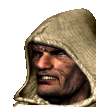
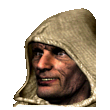
faceAnimation

Changed region(s): [[0.2727, 0.3545, 0.7091, 0.9], [0.5455, 0.8182, 0.5727, 0.8455], [0.2182, 0.4364, 0.2455, 0.4636]]

diff --git a/Stronghold crusader/Client/view/GameGraphics.java b/Stronghold crusader/Client/view/GameGraphics.java
@@ -93,6 +93,7 @@ public class GameGraphics extends Application {
     private ComboBox<TradeRequest> tradesHistoryComboBox;
     private ArrayList<Rectangle> selectionRectangles = new ArrayList<>();
     private ImageView attackBanner;
+    private ImageView faceImage;
     private ArrayList<PopularityFactor> popularityFactors = new ArrayList<>();
     private CursorAnimation cursorAnimation;
     private StackPane miniMapPane;
@@ -100,7 +101,6 @@ public class GameGraphics extends Application {
     private double minX;
     private double minY;
     private ScrollPane clipBoard;
-
     @Override
     public void start(Stage stage) {
         Scene scene = prepareStageElements();
@@ -126,6 +126,16 @@ public class GameGraphics extends Application {
         scene.getStylesheets().add(GameGraphics.class.getResource("/CSS/slideBar.css").toExternalForm());
         setCheatShortCuts(scene);
         createClipboard();
+        FaceAnimation faceAnimation = new FaceAnimation(faceImage, 10);
+        faceAnimation.play();
+    }
+
+    private void setFaceImage() {
+        Image image = new Image(GameGraphics.class.getResource("/Images/Game/Menu/Face/anim (0).png").toString(), 147, 147, false, false);
+        faceImage = new ImageView(image);
+        faceImage.setTranslateX(308);
+        faceImage.setTranslateY(-63);
+        statusPane.getChildren().add(faceImage);
     }
 
     private void setCamera() {
@@ -775,6 +785,7 @@ public class GameGraphics extends Application {
         imageView.setScaleY(1.4);
         stackPane.getChildren().add(imageView);
         rootPane.getChildren().add(stackPane);
+        setFaceImage();
         setCreateBuilding();
         statusBarButtons();
         setGovernmentDetails();
@@ -1332,6 +1343,7 @@ public class GameGraphics extends Application {
         if (popularity < 50) popularityText.setFill(Color.RED);
         else if (popularity < 75) popularityText.setFill(Color.ORANGE);
         else popularityText.setFill(Color.GREEN);
+        new FaceAnimation(faceImage, popularity).play();
     }
 
     private void statusBarButtons() {

diff --git a/Stronghold crusader/Client/view/FaceAnimation.java b/Stronghold crusader/Client/view/FaceAnimation.java
@@ -1,0 +1,53 @@
+package Client.view;
+
+import javafx.animation.Transition;
+import javafx.scene.image.Image;
+import javafx.scene.image.ImageView;
+import javafx.scene.layout.Pane;
+import javafx.util.Duration;
+
+public class FaceAnimation extends Transition {
+    private static int faceAnimNumber = 0;
+    private ImageView imageView;
+    private int finalImageNumber;
+    private double counter;
+    private int i;
+
+    public FaceAnimation(ImageView imageView, int popularity) {
+        this.imageView = imageView;
+        if (popularity < 50)
+            finalImageNumber = 10;
+        else if (popularity < 75)
+            finalImageNumber = 5;
+        else
+            finalImageNumber = 0;
+        if (finalImageNumber > faceAnimNumber)
+            i = 1;
+        else if (finalImageNumber < faceAnimNumber)
+            i = -1;
+        else
+            i = 0;
+        counter = i;
+        this.setCycleDuration(Duration.millis(10000));
+        this.setCycleCount(-1);
+    }
+
+    @Override
+    protected void interpolate(double v) {
+        try {
+            int count = (int) Math.floor(counter);
+            Image image = new Image(GameGraphics.class.getResource("/Images/Game/Menu/Face/anim (" + (faceAnimNumber + count) +").png").toString(), 147, 147, false, false);
+            imageView.setImage(image);
+            if (faceAnimNumber + count == finalImageNumber) {
+                faceAnimNumber = finalImageNumber;
+                this.stop();
+            }
+            counter += i * 0.035;
+        }
+        catch (Exception e) {
+            this.stop();
+        }
+
+
+    }
+}
